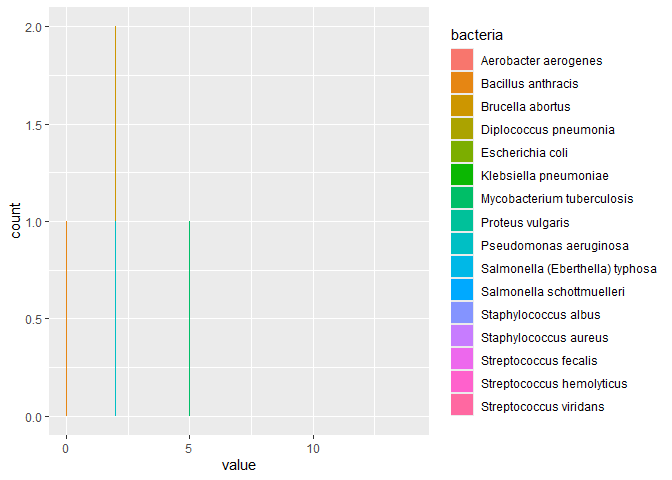
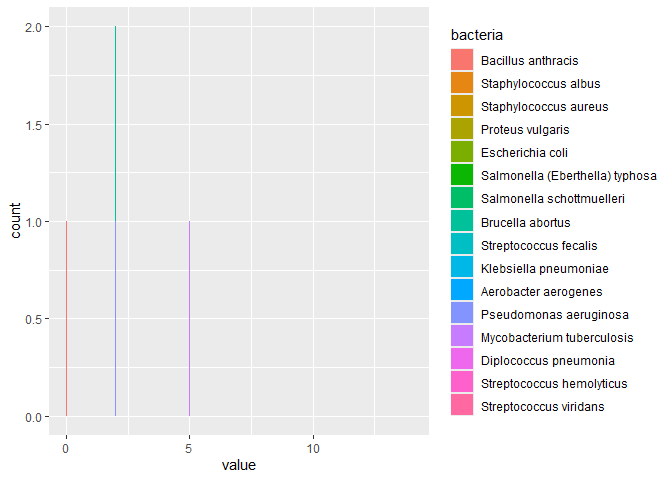
Resubmission of Challenge 05

Changed region(s): [[0.7188, 0.4062, 0.9688, 0.7812], [0.7188, 0.0938, 0.9375, 0.2812], [0.7188, 0.3438, 1.0, 0.375]]

diff --git a/challenges/c05-antibiotics-assignment.md b/challenges/c05-antibiotics-assignment.md
@@ -160,8 +160,10 @@ is Gram positive or negative.
 ``` r
 df_antibiotics %>% 
   pivot_longer(cols = penicillin:neomycin, names_to = "antibiotic") %>% 
-  ggplot(aes(x = bacteria, y = value, fill = antibiotic)) +
+  mutate(bacteria = fct_reorder(bacteria, value)) %>% 
+  ggplot(aes(x = bacteria, y = log(value), fill = antibiotic)) +
   geom_col(position = "dodge" , aes(color = gram)) +
+  geom_hline(yintercept = 0.1, color = 'black', linetype = "longdash") +
   coord_flip()
 ```
 
@@ -180,7 +182,9 @@ your other visuals.
 ``` r
 df_antibiotics %>% 
   pivot_longer(cols = penicillin:neomycin, names_to = "antibiotic") %>% 
-  ggplot(aes(x = bacteria, y = value)) +
+  mutate(bacteria = fct_reorder(bacteria, value)) %>% 
+  ggplot(aes(x = bacteria, y = log(value))) +
+  geom_hline(yintercept = 0.1, color = 'black', linetype = "longdash") +
   geom_col(position = "dodge", aes(fill = gram)) +
   facet_grid(antibiotic ~ .) + 
   coord_flip()
@@ -200,6 +204,7 @@ your other visuals.
 ``` r
 df_antibiotics %>% 
   pivot_longer(cols = penicillin:neomycin, names_to = "antibiotic") %>% 
+  mutate(bacteria = fct_reorder(bacteria, value)) %>% 
   filter(antibiotic == "streptomycin") %>% 
   ggplot(aes(x = value, fill = bacteria)) +
   geom_bar(position = "stack", stat = "count")
@@ -220,8 +225,9 @@ your other visuals.
 # WRITE YOUR CODE HERE
 df_antibiotics %>% 
   pivot_longer(cols = penicillin:neomycin, names_to = "antibiotic") %>% 
-  ggplot(aes(x = bacteria, y = value)) +
-  geom_point(aes(color = antibiotic))
+  ggplot(aes(x = antibiotic, y = log(value), color = gram), position = 'jitter') +
+  geom_point() +
+  geom_hline(yintercept = 0.1, color = 'black', linetype = "longdash")
 ```
 
 ![](c05-antibiotics-assignment_files/figure-gfm/q1.4-1.png)<!-- -->
@@ -239,9 +245,11 @@ your other visuals.
 # WRITE YOUR CODE HERE
 df_antibiotics %>% 
   pivot_longer(cols = penicillin:neomycin, names_to = "antibiotic") %>% 
-  ggplot(aes(x = bacteria, y = value, color = antibiotic)) +
+  mutate(bacteria = fct_reorder(bacteria, value)) %>% 
+  ggplot(aes(x = bacteria, y = log(value), color = antibiotic)) +
   geom_point() + 
-  facet_grid(gram ~ .)
+  facet_grid(gram ~ .) +
+  geom_hline(yintercept = 0.1)
 ```
 
 ![](c05-antibiotics-assignment_files/figure-gfm/q1.5-1.png)<!-- -->
@@ -266,12 +274,14 @@ opportunity to think about why this is.**
 > bacteria of different genera and Gram stain?
 
 *Observations* - What is your response to the question above? -
-Penicillin is effective against many bacteria, but requires a higher
-dosage. It is also mostly negative gram. Streptomycin is also effective
-against many bacteria, but requires a very low dose. It is a pretty even
-mix of negative and positive gram. Similarly, Neomycin is effective with
-a low dose and is pretty evently split between negative and positive
-gram.
+Penicillin is effective against some bacteria, but requires a higher
+dosage. As MIC must be lower for effective human treatment, at most a .1
+concentration, this implies that penicillin is ineffective for many
+bacteria strains including all the gram negative bacterias. Streptomycin
+is also effective against many bacteria, but requires a very low dose.
+It is a pretty even mix of negative and positive gram. Similarly,
+Neomycin is effective with a low dose and is pretty evently split
+between negative and positive gram.
 
 - Which of your visuals above (1 through 5) is **most effective** at
   helping to answer this question?
@@ -291,7 +301,7 @@ and in 1984 *Streptococcus fecalis* was renamed *Enterococcus fecalis*
 > Why was *Diplococcus pneumoniae* was renamed *Streptococcus
 > pneumoniae*?
 
-*Observations* - What is your response to the question above? - Perhaps
+*Observati ons* - What is your response to the question above? - Perhaps
 it was renamed because Diplococcus pneumoniae is of positive gram like
 the streptococcus bacteria, so it is related to it.
 
